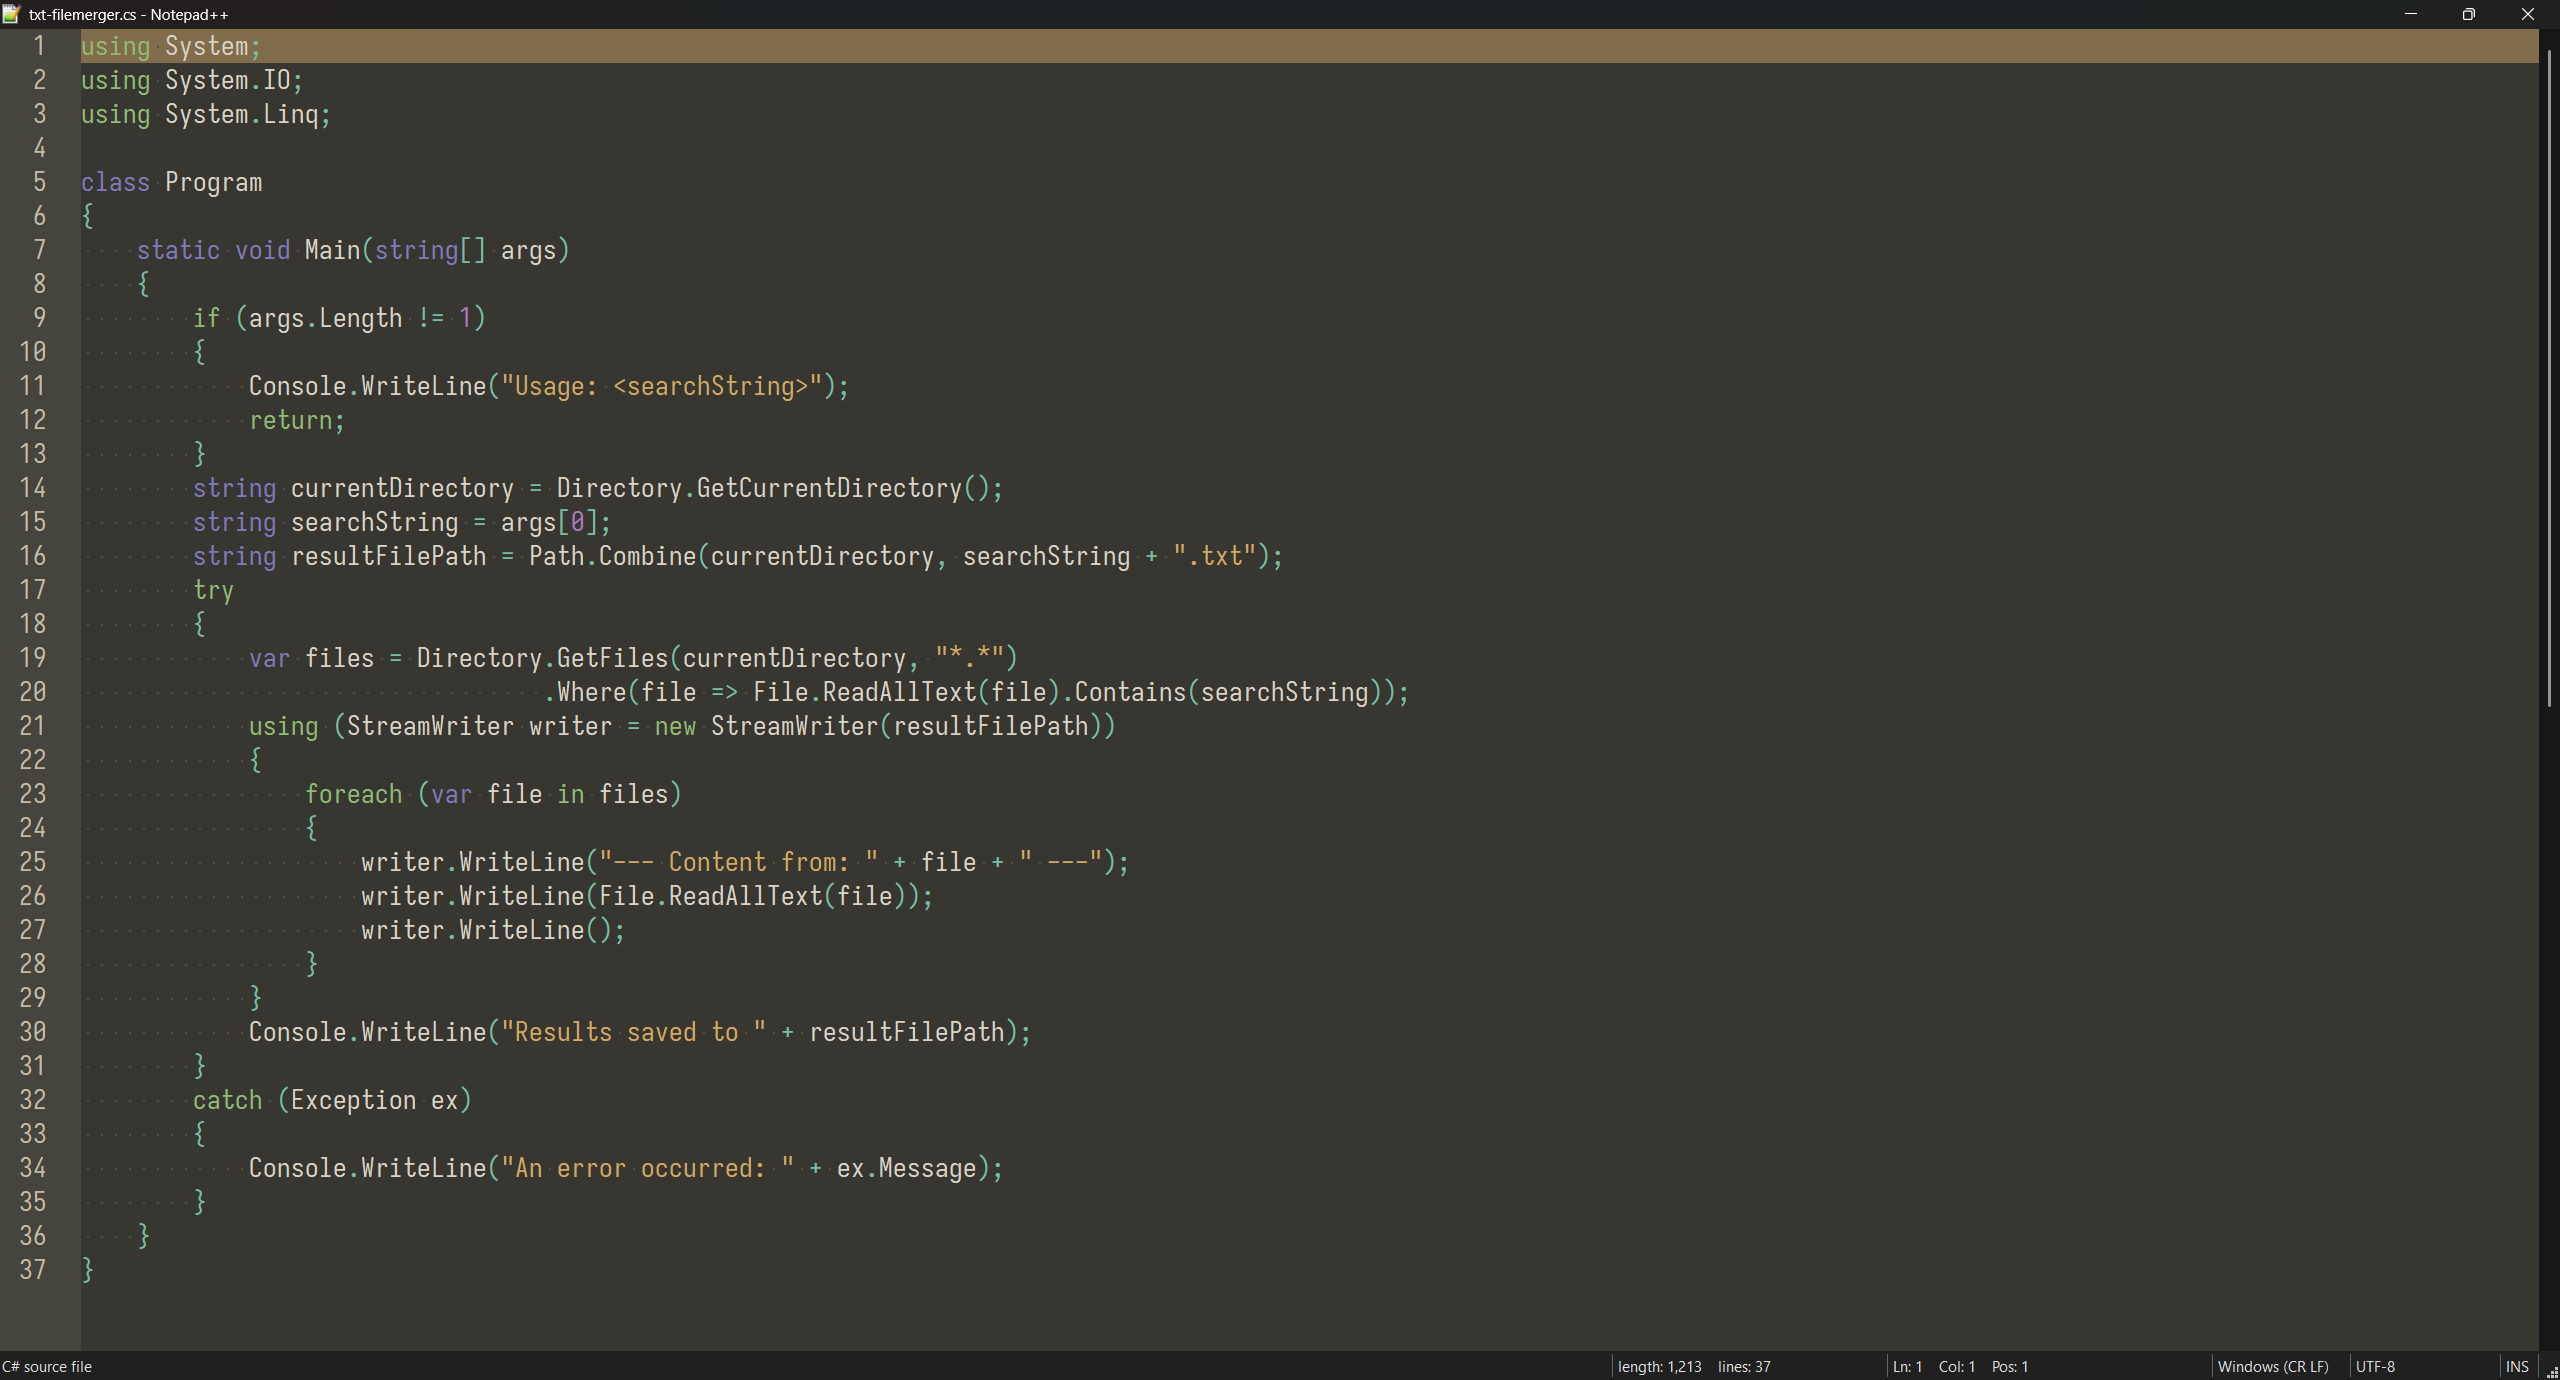
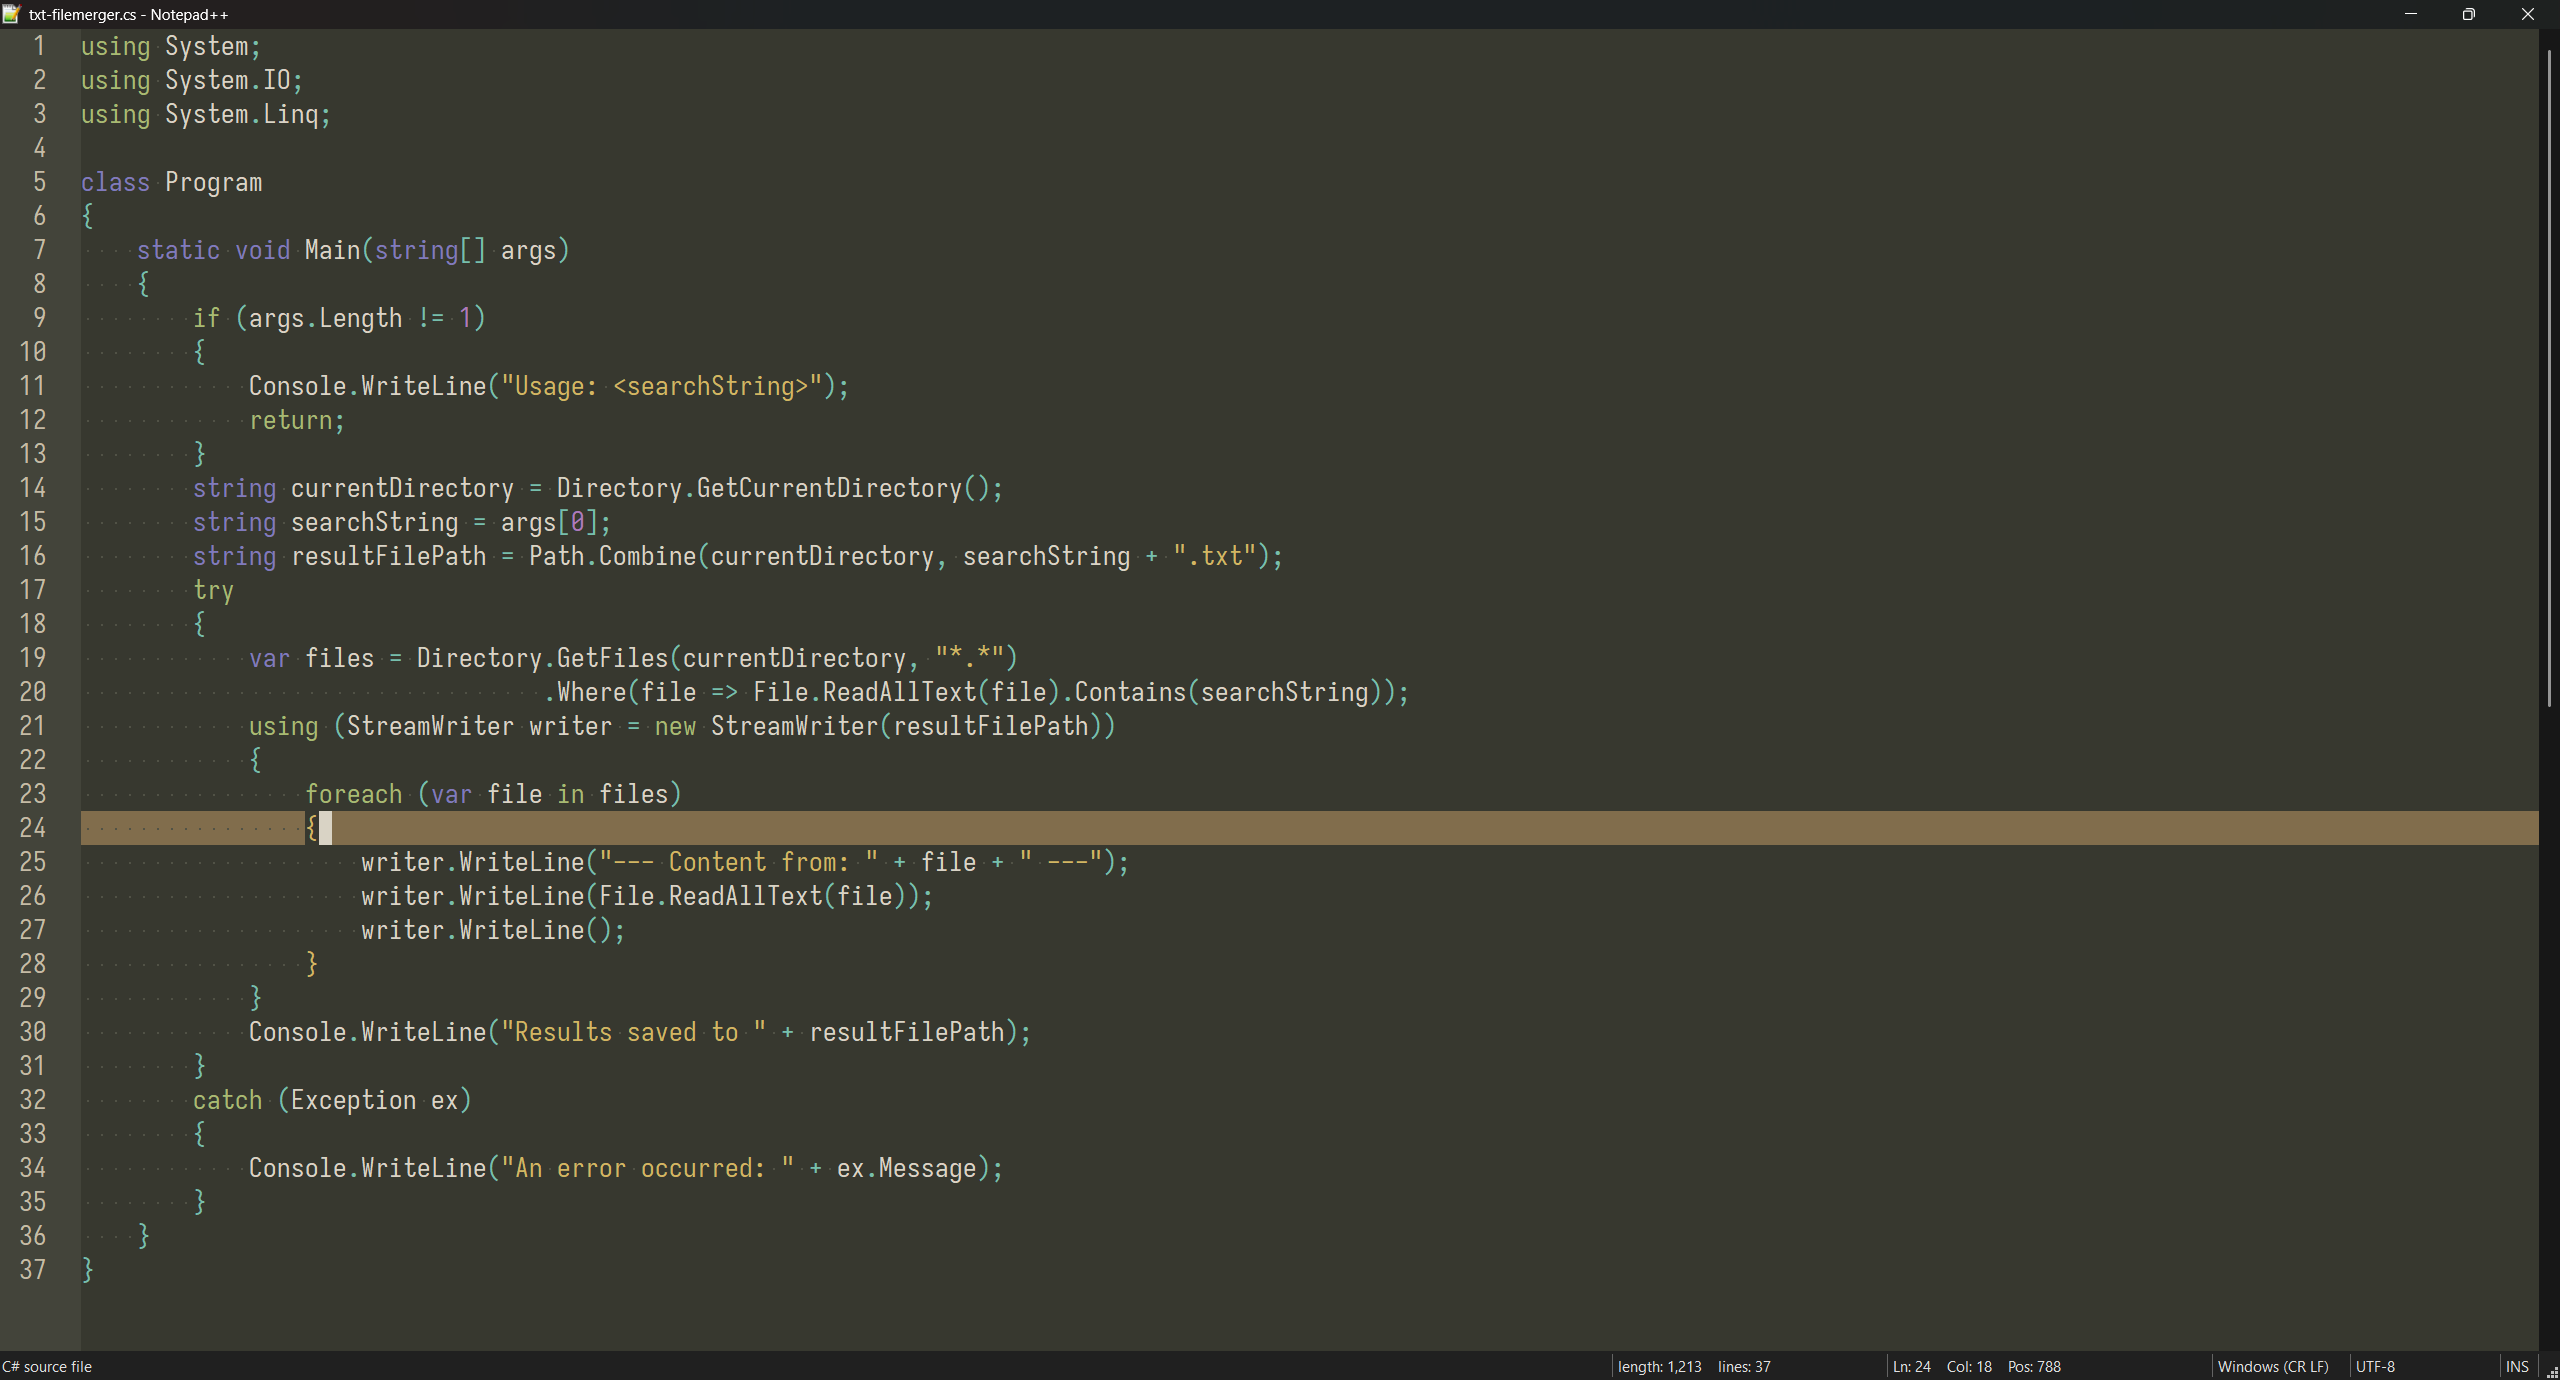
updating viridian theme

Changed region(s): [[0.0312, 0.5609, 1.0, 0.6232], [0.0312, 0.0, 1.0, 0.0623], [0.75, 0.9659, 0.8125, 0.9971]]

diff --git a/scheme_files/other/viridian.html b/scheme_files/other/viridian.html
@@ -26,18 +26,18 @@ this template is meant as a reference sheet for your color theme
 			</tr>
 			<tr>
 				<td>Background - 1st level<br><a>UI: default text bg</a></td>
-				<td>#373631</td>
+				<td>#37382F</td>
 				<td style="background-color:#373631;"></td>
 			</tr>
 			<tr>
 				<td>Background - 2nd level<br><a>UI: inactive tab or file bg, 2nd level surfaces bg</a></td>
-				<td>#45443d</td>
-				<td style="background-color:#45443d;"></td>
+				<td>#43443A</td>
+				<td style="background-color:#43443A;"></td>
 			</tr>
 			<tr>
 				<td>Background - 3rd level<br><a>UI: separators, other bg symbols</a></td>
-				<td>#515048</td>
-				<td style="background-color:#515048;"></td>
+				<td>#515246</td>
+				<td style="background-color:#515246;"></td>
 			</tr>
 			<tr>
 				<td>Foreground - 1st level<br><a>UI: cursor
@@ -89,19 +89,19 @@ this template is meant as a reference sheet for your color theme
 			<tr>
 				<td>syntax 2<br><a>UI: change history revert origin, change history revert modified, warnings
                 <br>SYNTAX: strings, char, regex, verbatim<br>TERMINAL: yellow</a></td>
-				<td>#d2a963</td>
-				<td style="background-color:#d2a963;"></td>
+				<td>#D2B662</td>
+				<td style="background-color:#D2B662;"></td>
 			</tr>
 			<tr>
 				<td>syntax 3<br><a>SYNTAX: opertors, variables, identifiers<br>TERMINAL: cyan</a></td>
-				<td>#76bfa2</td>
-				<td style="background-color:#76bfa2;"></td>
+				<td>#76BFAC</td>
+				<td style="background-color:#76BFAC;"></td>
 			</tr>
 			<tr>
 				<td>syntax 4<br><a>UI: change history saved
                 <br>SYNTAX: conditionals, keywords, tags, commands, instructions<br>TERMINAL: green</a></td>
-				<td>#92Ba73</td>
-				<td style="background-color:#92Ba73;"></td>
+				<td>#A8BA72</td>
+				<td style="background-color:#A8BA72;"></td>
 			</tr>
 			<tr>
 				<td>syntax 5<br><a>SYNTAX: keys, types, class, groups, sections, preprocessor<br>TERMINAL: blue</a></td>